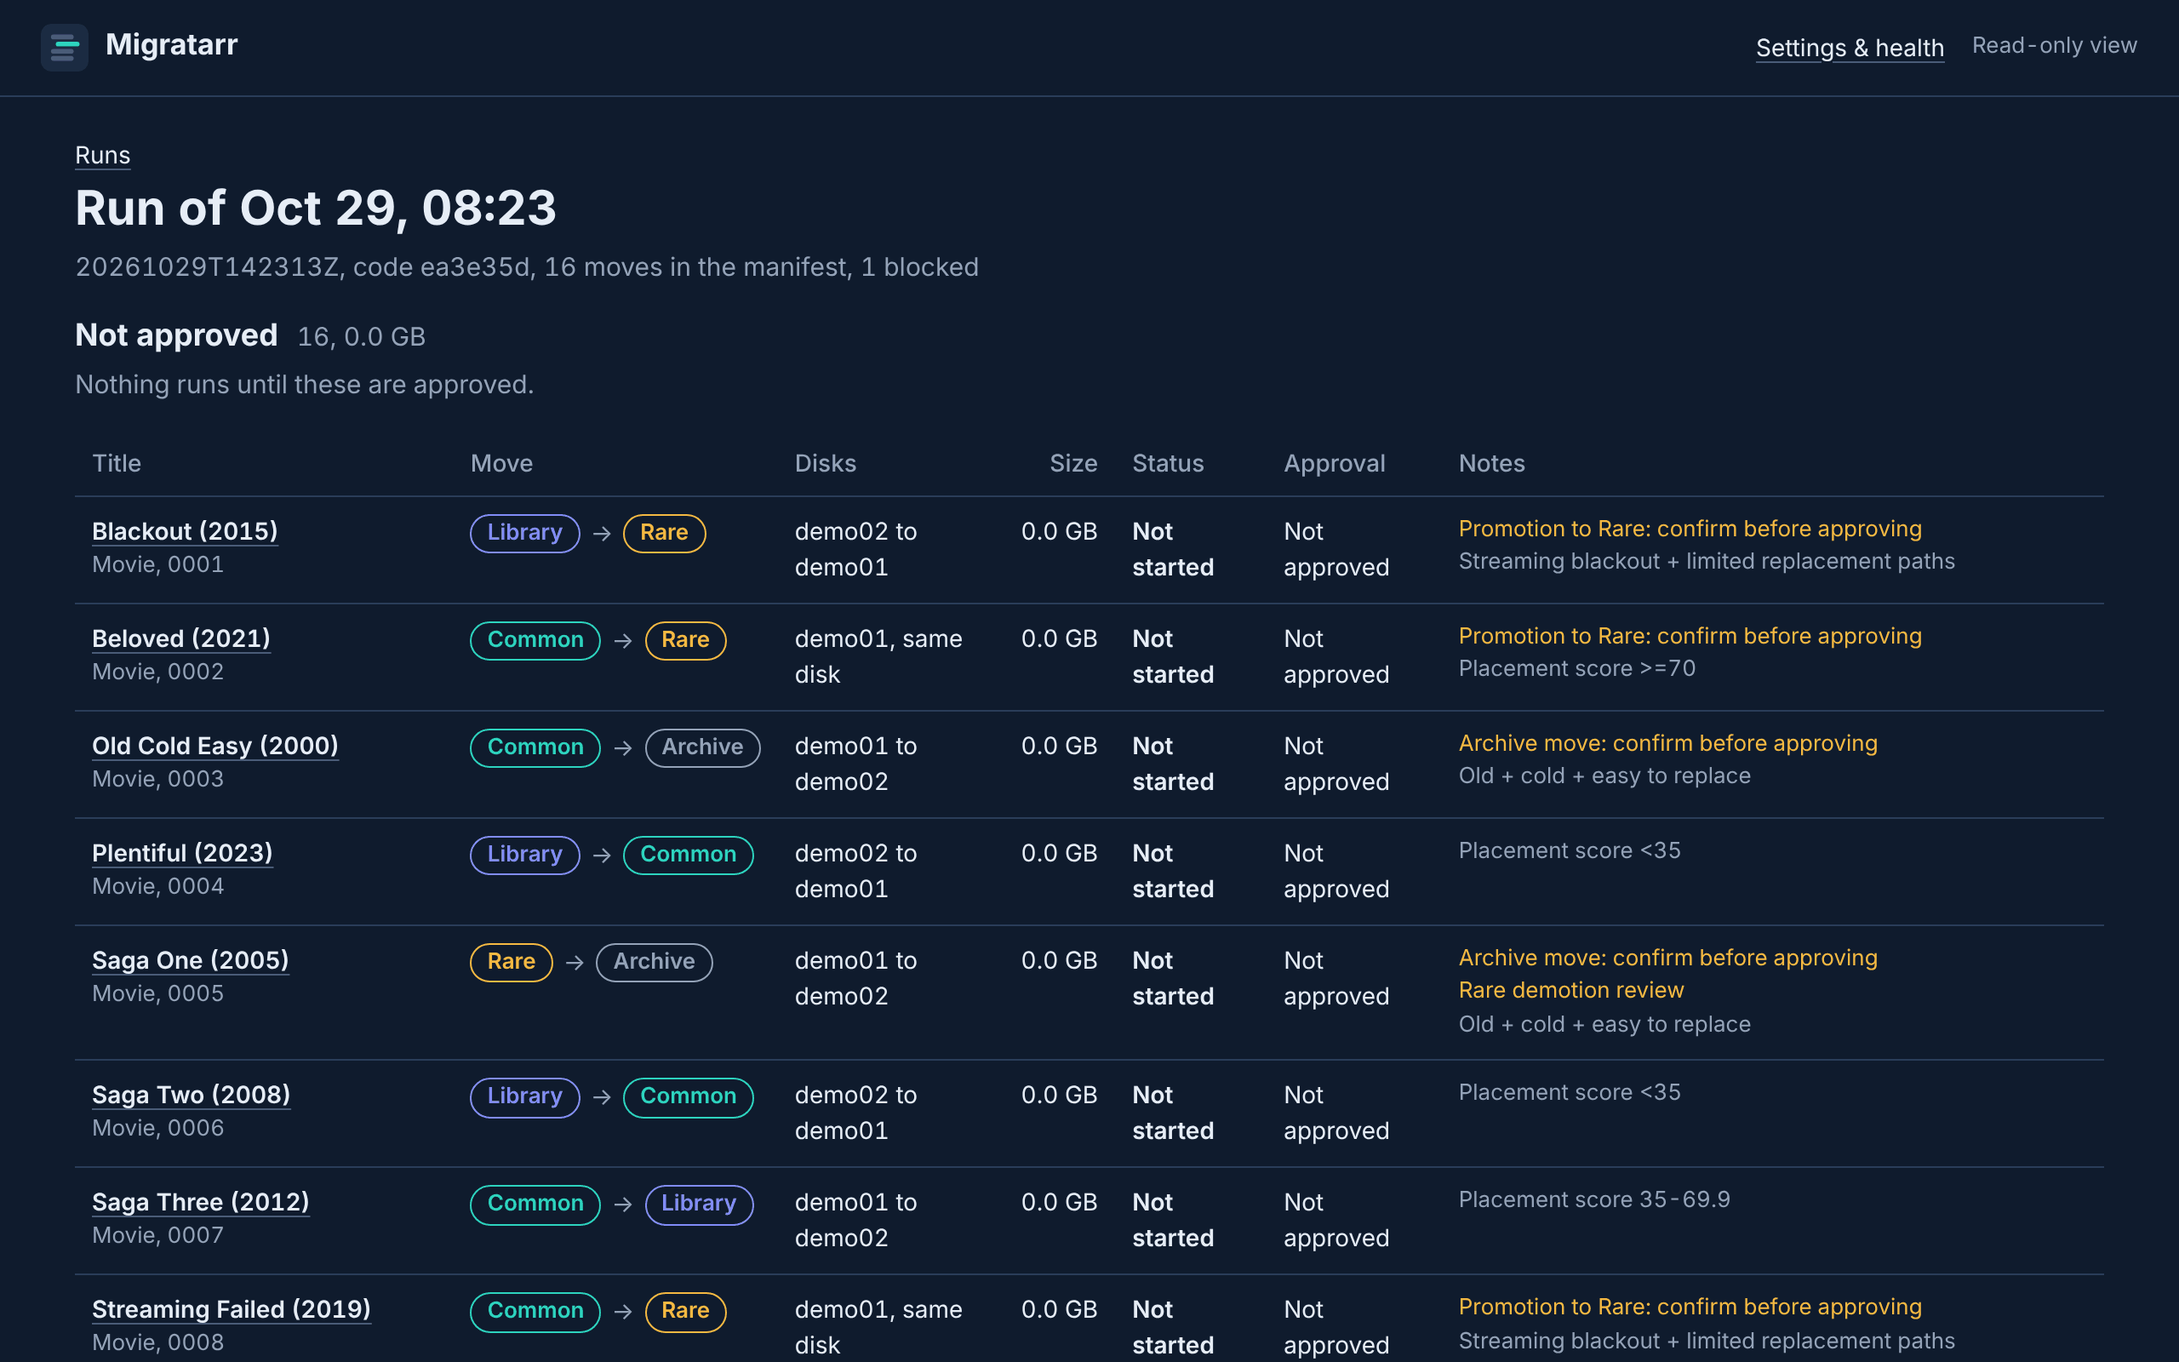
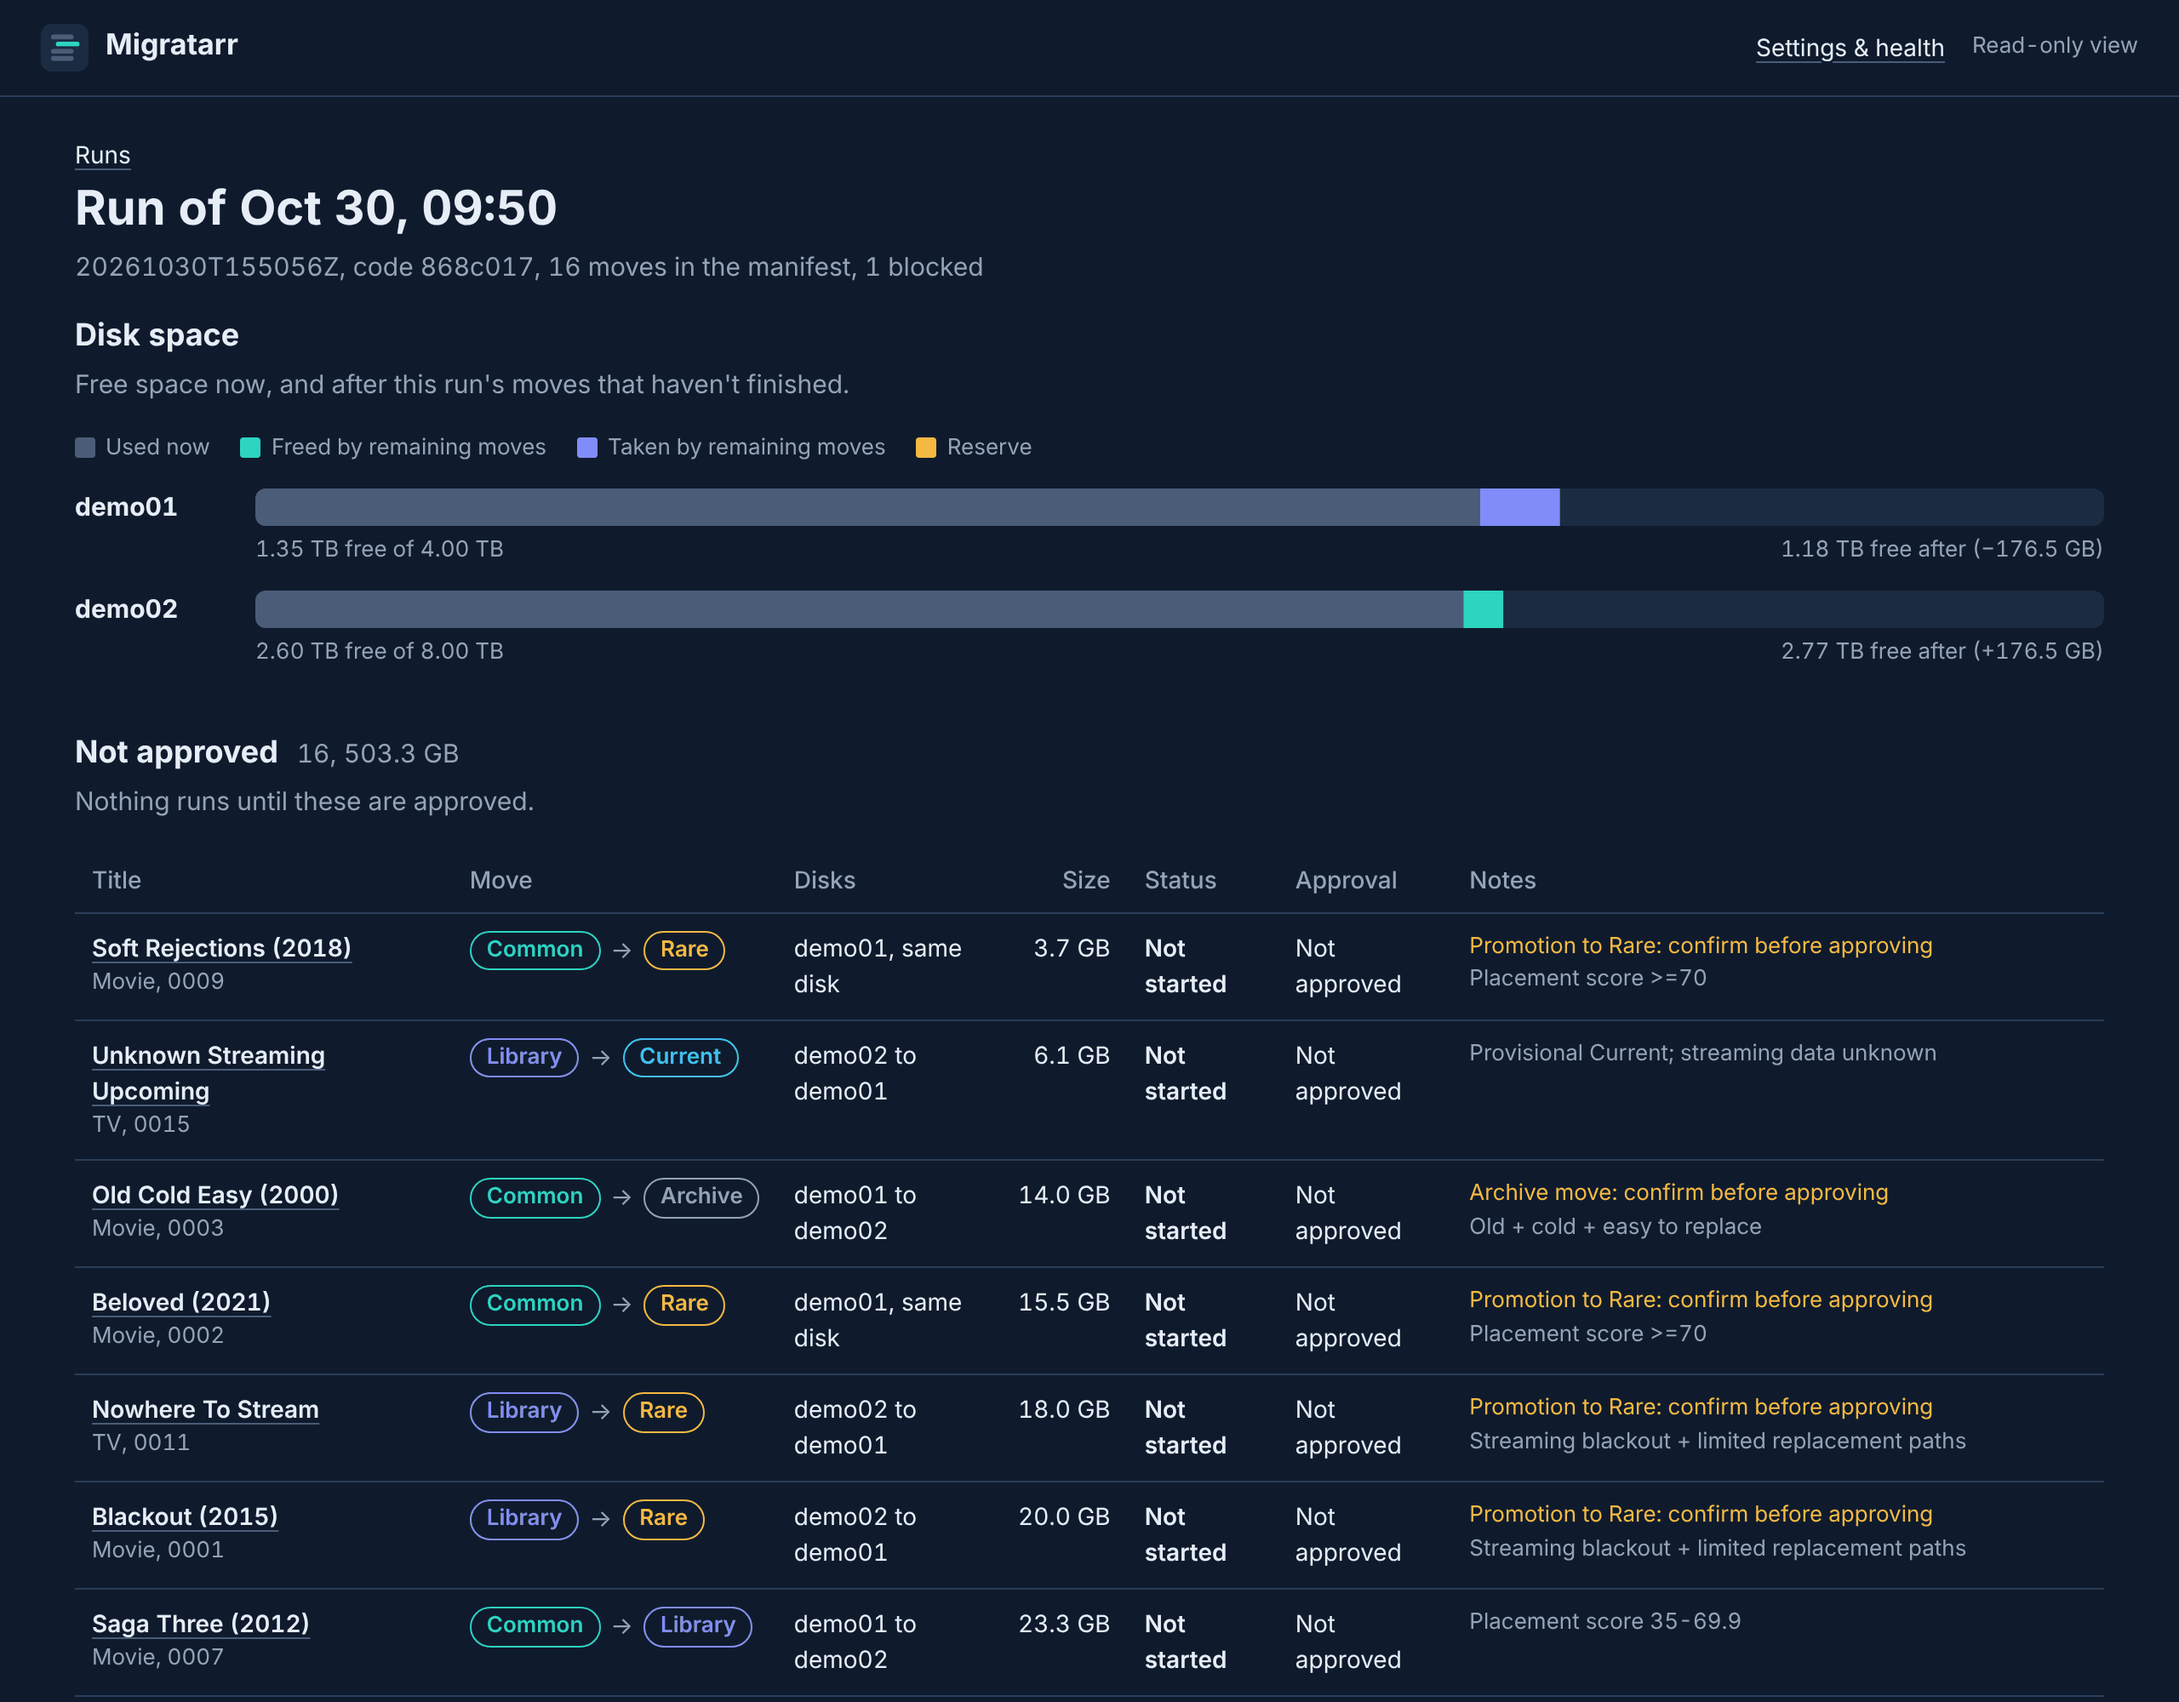
Demo: believable sizes and disk space
- Each made-up title is a sparse file of a stable, believable size
  (movies 1.5-28 GB, shows 6-90 GB): hundreds of GB reported, ~200 KB
  written. On a filesystem without sparse files it falls back to 4 KB
  files and says so, never filling the disk.
- The demo disks have pretend capacity (4 TB / 8 TB), kept in
  demo-disks.json: the planner's space checks and the UI's disk bars
  use it (also when the demo is browsed again), so a small machine's
  real free space can't block demo moves.
- README plan screenshot retaken with sizes and disk bars.

Claude-Session: https://claude.ai/code/session_01RNmBVZFWeTHqgA1khxgKxD

diff --git a/migratarr/demo.py b/migratarr/demo.py
@@ -15,15 +15,18 @@ approved or moved. Your own settings and data folder are never read or written.
 Delete FOLDER when done. Standard library only.
 """
 import argparse
+import hashlib
 import io
 from contextlib import contextmanager
 import json
 import os
 from pathlib import Path
 import runpy
+import shutil
 import sys
 import tempfile
 import time
+from types import SimpleNamespace
 import urllib.request
 from urllib.parse import urlsplit
 
@@ -38,6 +41,11 @@ FOLDERS = {
               'Archive': 'Movies/Archive'},
     'TV': {'Current': 'TV/Current', 'Rare': 'TV/Rare', 'Library': 'TV/Library', 'Archive': 'TV/Archive'},
 }
+# Pretend capacity of the demo disks (bytes): the planner's space checks and the UI's disk bars use these
+# instead of the real free space of the folder the demo lives in (written to demo-disks.json).
+TB = 1024 ** 4
+CAPACITY = {'demo01': (4 * TB, int(1.35 * TB)), 'demo02': (8 * TB, int(2.6 * TB))}
+DISK_FILE = 'demo-disks.json'
 KEYS = {'radarr': 'MIGRATARR_DEMO_RADARR_KEY', 'sonarr': 'MIGRATARR_DEMO_SONARR_KEY',
         'jellyfin': 'MIGRATARR_DEMO_JELLYFIN_KEY', 'tmdb': 'MIGRATARR_DEMO_TMDB_TOKEN'}
 # Settings the demo replaces for its own process, so the user's own files are never used.
@@ -95,17 +103,82 @@ def build(home):
         for media, categories in zip(FOLDERS, holds):
             for category in FOLDERS[media]:
                 (disks / disk / FOLDERS[media][category]).mkdir(parents=True, exist_ok=True)
+    sparse = None  # unknown until the first file
     for media, category, name in library_folders():
         if category is None:  # a title outside every category folder: the planner reports it
             continue
         disk = next(d for d, holds in DISKS.items() if category in holds[0 if media == 'Movie' else 1])
         folder = disks / disk / FOLDERS[media][category] / name
         folder.mkdir(parents=True, exist_ok=True)
-        (folder / ('placeholder.mkv' if media == 'Movie' else 'S01E01.mkv')).write_bytes(b'\0' * 4096)
+        sparse = sized_file(folder / ('placeholder.mkv' if media == 'Movie' else 'S01E01.mkv'),
+                            title_size(media, name) if sparse is not False else 4096)
+    if sparse is False:
+        print('This disk can\'t make sparse files, so the demo titles are tiny (sizes show as 0.0 GB).', flush=True)
+    (home / DISK_FILE).write_text(json.dumps({str(disks / d): dict(total=t, free=f) for d, (t, f) in CAPACITY.items()},
+                                             indent=2) + '\n', encoding='utf-8')
     for path in [disks, *disks.rglob('*')]:
         if path.is_dir():
             path.chmod(0o775)  # the planner checks group write, as on a real library
     return home
+
+
+def title_size(media, name):
+    """A believable size for a made-up title, the same every time: a movie 1.5-28 GB, a show 6-90 GB."""
+    low, high = (1.5, 28) if media == 'Movie' else (6, 90)
+    fraction = int(hashlib.sha256(name.encode()).hexdigest()[:8], 16) / 0xFFFFFFFF
+    return int((low + (high - low) * fraction) * 1024 ** 3)
+
+
+def sized_file(path, size):
+    """A sparse file of ``size`` bytes: it reports that size and takes almost no space. True when sparse; on a
+    filesystem that can't make sparse files, removes it, writes a 4 KB file instead and returns False."""
+    with open(path, 'wb') as f:
+        f.truncate(size)
+    if size > 4096 and path.stat().st_blocks * 512 > 64 * 1024 * 1024:
+        path.write_bytes(b'\0' * 4096)
+        return False
+    return True
+
+
+def demo_disks(base):
+    """{disk path: (total, free)} from a demo's demo-disks.json, or None for any other data folder."""
+    try:
+        data = json.loads((Path(base) / DISK_FILE).read_text(encoding='utf-8'))
+        return {Path(p): (int(v['total']), int(v['free'])) for p, v in data.items()}
+    except (OSError, ValueError, TypeError, KeyError, AttributeError):
+        return None
+
+
+def _pretend(disks, path):
+    path = Path(path)
+    for root, sizes in disks.items():
+        if path == root or root in path.parents:
+            return sizes
+    return None
+
+
+def disk_usage(disks, real=shutil.disk_usage):
+    """shutil.disk_usage, with the demo disks' pretend capacity."""
+    def usage(path):
+        sizes = _pretend(disks, path)
+        if sizes is None:
+            return real(path)
+        total, free = sizes
+        return shutil._ntuple_diskusage(total, total - free, free)
+    return usage
+
+
+def statvfs(disks, real=os.statvfs):
+    """os.statvfs, with the demo disks' pretend capacity (what the planner's space checks read)."""
+    def stat(path):
+        sizes = _pretend(disks, path)
+        if sizes is None:
+            return real(path)
+        total, free = sizes
+        block = 4096
+        return SimpleNamespace(f_bsize=block, f_frsize=block, f_blocks=total // block, f_bfree=free // block,
+                               f_bavail=free // block)
+    return stat
 
 
 @contextmanager
@@ -177,6 +250,7 @@ def make_plan(home):
     """Run the planning pipeline against the made-up library. Returns migratarr.plan's exit code."""
     from migratarr import plan
     with swapped((urllib.request, 'urlopen', demo_urlopen), (time, 'sleep', lambda seconds: None),
+                 (os, 'statvfs', statvfs(demo_disks(home) or {})),
                  (plan, 'run_step', run_step_here), (plan, 'summary', demo_summary(plan.summary, home)),
                  # The preflight's health checks would contact the real services; the demo has none.
                  (plan, 'preflight', lambda repo, allow_dirty: ([], Path(home)))):

diff --git a/tests/test_demo.py b/tests/test_demo.py
@@ -37,6 +37,12 @@ class DemoTests(unittest.TestCase):
             runtime = json.loads((home / 'config/runtime.json').read_text())
             self.assertEqual(runtime['topology'], 'local')
             self.assertFalse(list(home.glob('secrets/*')))  # no keys stored
+            # Believable sizes and disk space, from sparse files and the demo disks' pretend capacity.
+            gb = [float(x) for x in __import__('re').findall(r'TRANSFER: \d+ \(([\d.]+) GB\)', result.stdout)]
+            self.assertTrue(gb and gb[0] > 10, result.stdout[-1500:])
+            used = sum(f.stat().st_blocks * 512 for f in (home / 'disks').rglob('*') if f.is_file())
+            self.assertLess(used, 64 * 1024 * 1024)  # hundreds of GB reported, almost nothing written
+            self.assertTrue((home / 'demo-disks.json').exists())
 
     def test_demo_accepts_a_relative_folder(self):
         with tempfile.TemporaryDirectory() as tmp:
@@ -46,6 +52,38 @@ class DemoTests(unittest.TestCase):
             self.assertEqual(result.returncode, 0, result.stdout[-3000:] + result.stderr[-3000:])
             targets = json.loads(Path(tmp, 'demo/config/storage-targets.json').read_text())
             self.assertIn(str(Path(tmp).resolve()), json.dumps(targets))  # stored as absolute paths
+
+    def test_sizes_are_stable_and_believable(self):
+        from migratarr import demo
+        for media, low, high in (('Movie', 1.5, 28), ('TV', 6, 90)):
+            size = demo.title_size(media, 'Some Title (2001)') / 1024 ** 3
+            self.assertTrue(low <= size <= high, size)
+            self.assertEqual(demo.title_size(media, 'Some Title (2001)'), demo.title_size(media, 'Some Title (2001)'))
+
+    def test_no_sparse_files_means_tiny_files_not_a_full_disk(self):
+        from unittest.mock import patch
+        from migratarr import demo
+        with tempfile.TemporaryDirectory() as tmp:
+            target = Path(tmp, 'title.mkv')
+            real_stat = Path.stat
+
+            def dense(self, *a, **k):  # pretend every byte was written
+                st = real_stat(self, *a, **k)
+                return type('S', (), dict(st_size=st.st_size, st_blocks=st.st_size // 512 + 1))()
+            with patch.object(Path, 'stat', dense):
+                self.assertFalse(demo.sized_file(target, 20 * 1024 ** 3))
+            self.assertEqual(target.stat().st_size, 4096)
+
+    def test_pretend_capacity_only_for_demo_disks(self):
+        from migratarr import demo
+        with tempfile.TemporaryDirectory() as tmp:
+            disks = {Path(tmp, 'disks', 'demo01'): (4 * demo.TB, demo.TB)}
+            usage = demo.disk_usage(disks)
+            self.assertEqual(usage(str(Path(tmp, 'disks', 'demo01', 'Movies', 'Common'))).free, demo.TB)
+            self.assertNotEqual(usage(tmp).total, 4 * demo.TB)  # anything else: the real disk
+            stat = demo.statvfs(disks)
+            self.assertEqual(stat(str(Path(tmp, 'disks', 'demo01'))).f_bavail * 4096, demo.TB)
+            self.assertIsNone(demo.demo_disks(tmp))
 
     def test_demo_refuses_a_folder_that_is_not_empty(self):
         with tempfile.TemporaryDirectory() as tmp:

diff --git a/migratarr/ui.py b/migratarr/ui.py
@@ -1732,6 +1732,10 @@ def build_app(base=None, actions=True, backend=None):
         app.gate_failures = None
 
     pages.on_saved = wizard.on_created = app.on_reload = reload
+    from migratarr import demo
+    pretend = demo.demo_disks(app.base)
+    if pretend:  # a `migratarr demo` folder: its disks' pretend capacity, like its plan used
+        app.usage = demo.disk_usage(pretend)
     return app
 
 

diff --git a/README.md b/README.md
@@ -57,7 +57,7 @@ if nobody has watched it lately; a widely available title nobody plays may
 become an Archive candidate.
 
 <p align="center">
-  <img alt="A plan in the web UI: each move with its categories, disks, status, approval and the reasons behind it" src="https://raw.githubusercontent.com/jwilcox99/Migratarr/main/assets/screenshots/plan.png" width="800">
+  <img alt="A plan in the web UI: disk space now and after the moves, then each move with its categories, disks, size, status, approval and the reasons behind it" src="https://raw.githubusercontent.com/jwilcox99/Migratarr/main/assets/screenshots/plan.png" width="800">
 </p>
 <p align="center"><sub>A plan from <code>migratarr demo</code>: nothing moves until each row is approved.</sub></p>
 

diff --git a/CHANGELOG.md b/CHANGELOG.md
@@ -38,6 +38,10 @@ ready. Every move is still reviewed and approved in the UI before it runs.
   `docs/notifications.md`.
 
 ### Changed
+- `migratarr demo` shows believable sizes (a few GB per movie, tens of GB per show)
+  and disk space (a 4 TB and an 8 TB disk), so the disk-space view means something.
+  The titles are sparse files: they take almost no real space (on a filesystem
+  without sparse files the demo falls back to tiny files).
 - Approving: the review page's main button is "Approve and start moving" (approves,
   then starts the move job for exactly those moves); "Approve only" keeps the old
   behavior. After approving only, "Run N approved moves" is also right under the
